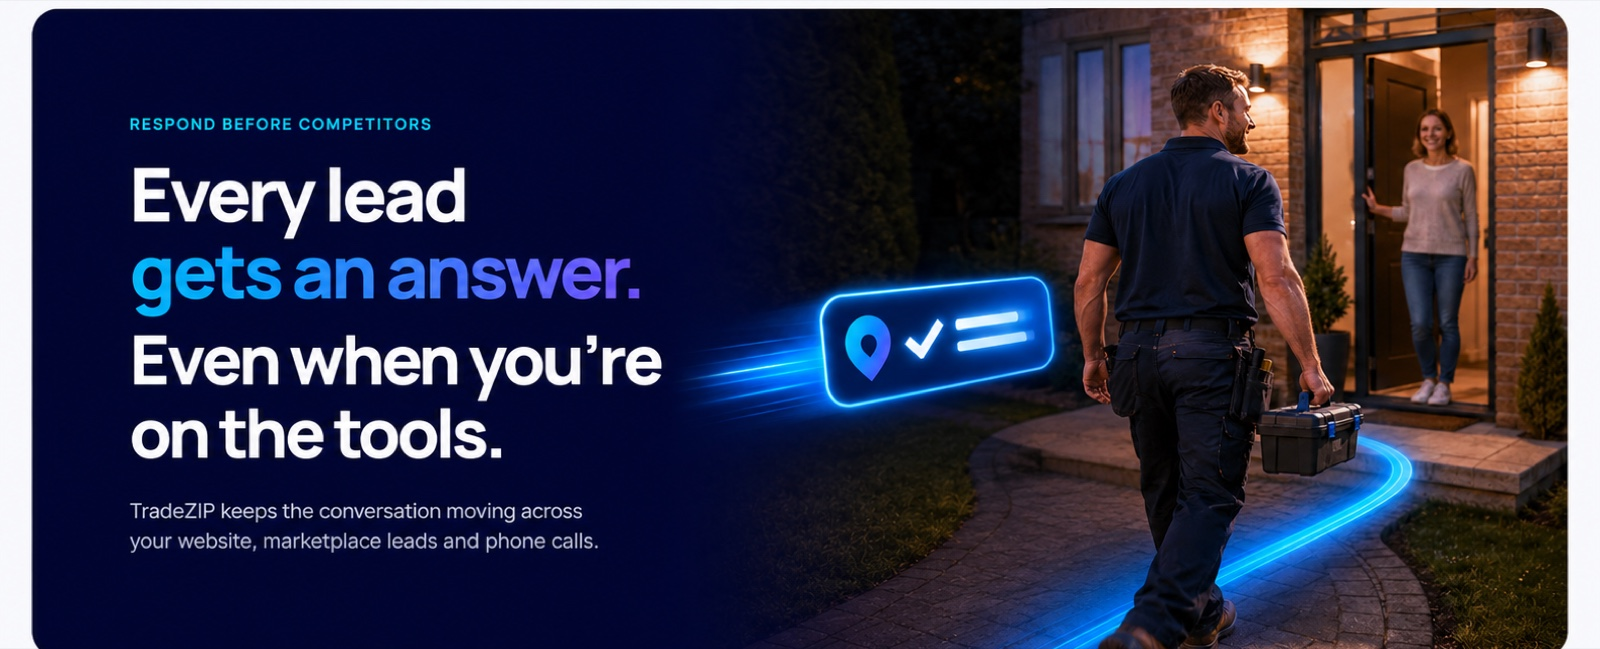
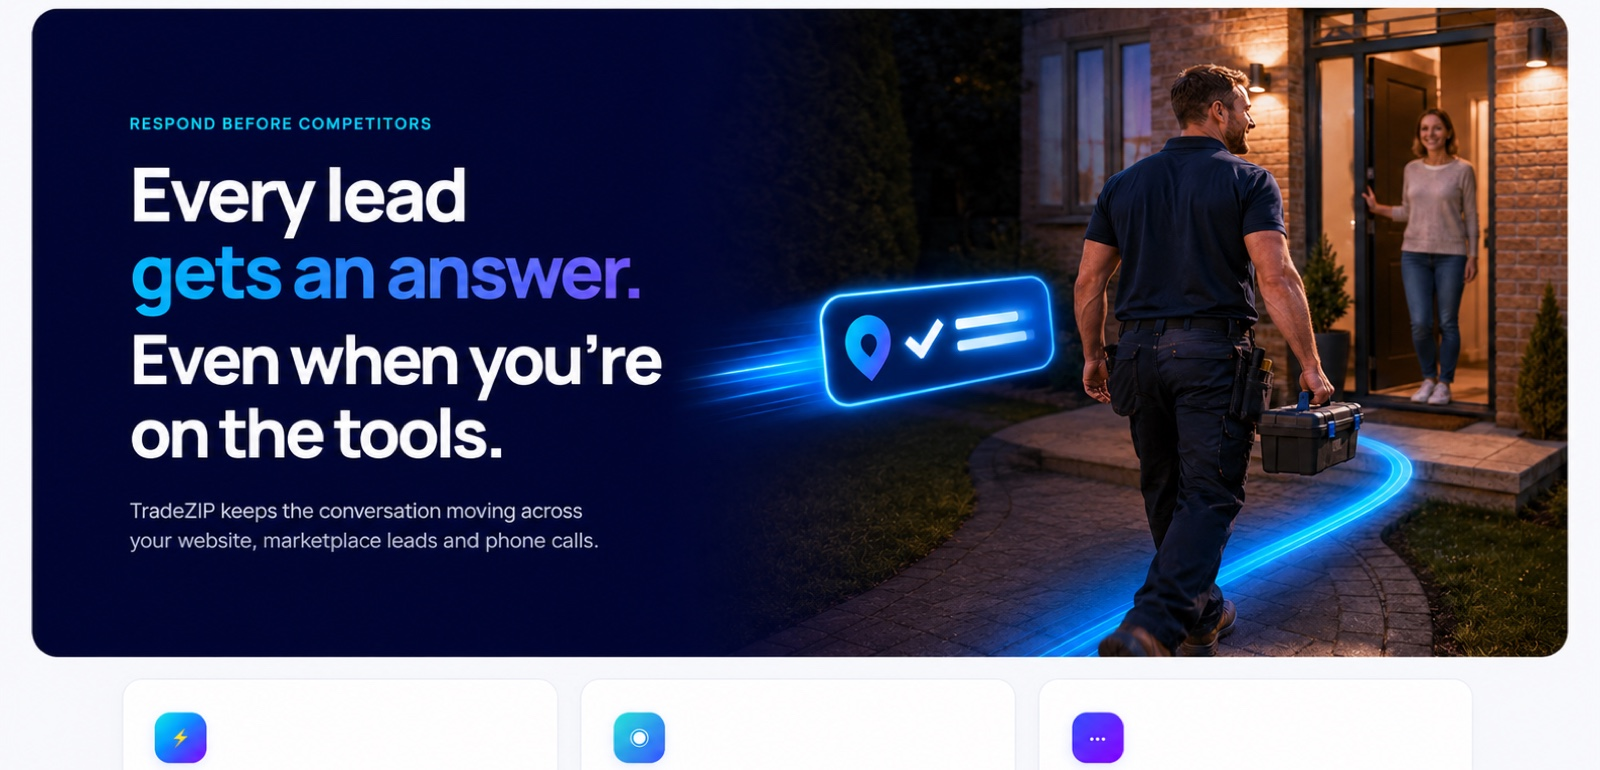
Respond hero: taller crop to show full figure + belt-and-suspenders border-radius on image itself for guaranteed rounded corners

diff --git a/index.html b/index.html
@@ -36,8 +36,9 @@
 
 /* respond-section (v2) — hero banner (uploaded image) + 3 icon-tile cards */
 .respond-section{background:#f5f6f8;padding:80px clamp(24px,4vw,64px) 100px}
-.respond-hero{max-width:1240px;margin:0 auto;border-radius:32px;overflow:hidden;position:relative;box-shadow:0 30px 80px rgba(10,23,53,0.25)}
-.respond-hero--image img{display:block;width:100%;height:auto}
+.respond-hero{max-width:1240px;margin:0 auto;border-radius:32px;position:relative;box-shadow:0 30px 80px rgba(10,23,53,0.25);line-height:0;isolation:isolate}
+.respond-hero--image img{display:block;width:100%;height:auto;border-radius:32px;-webkit-mask-image:-webkit-radial-gradient(#fff,#000)}
+@media (max-width:680px){.respond-hero--image img{border-radius:24px}}
 /* legacy CSS-scene classes (kept unused so cache doesn't 404 old builds) */
 .respond-hero__visual{position:relative;min-height:460px}
 .respond-hero__scene{position:absolute;inset:0;background:linear-gradient(135deg,#0e2350 0%,#0a1735 60%,#050f2a 100%);overflow:hidden}
